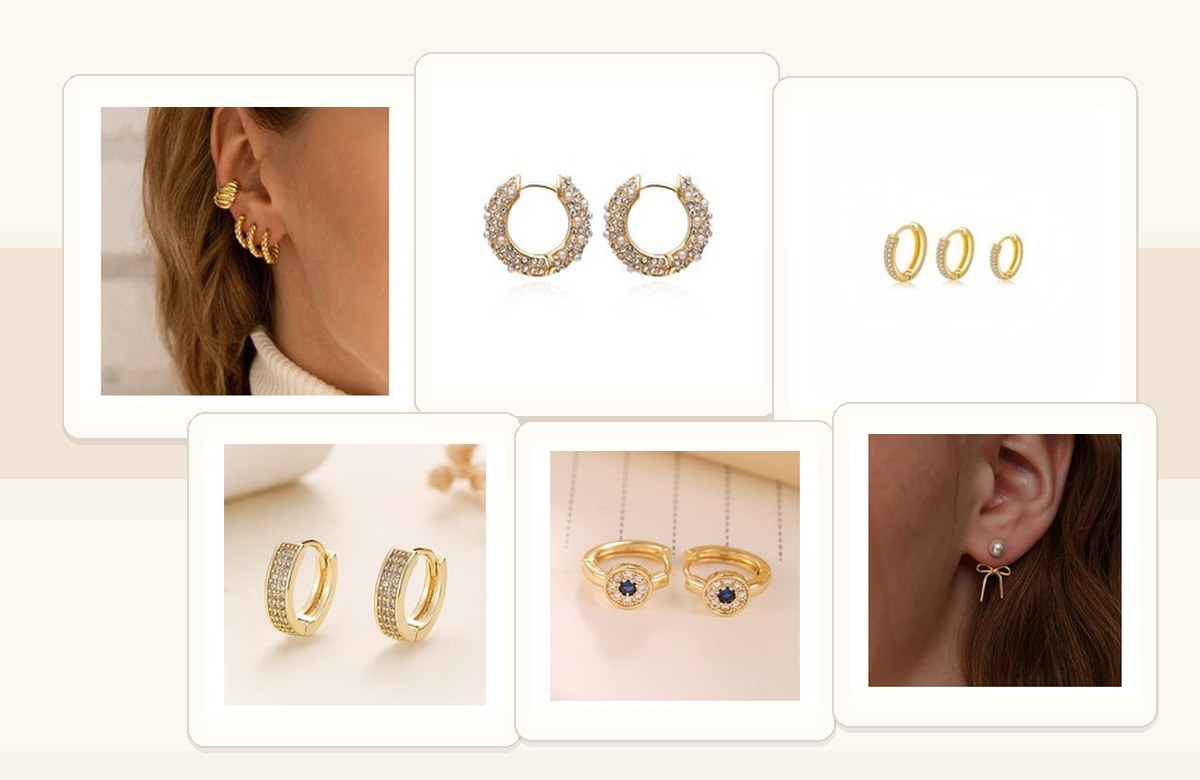
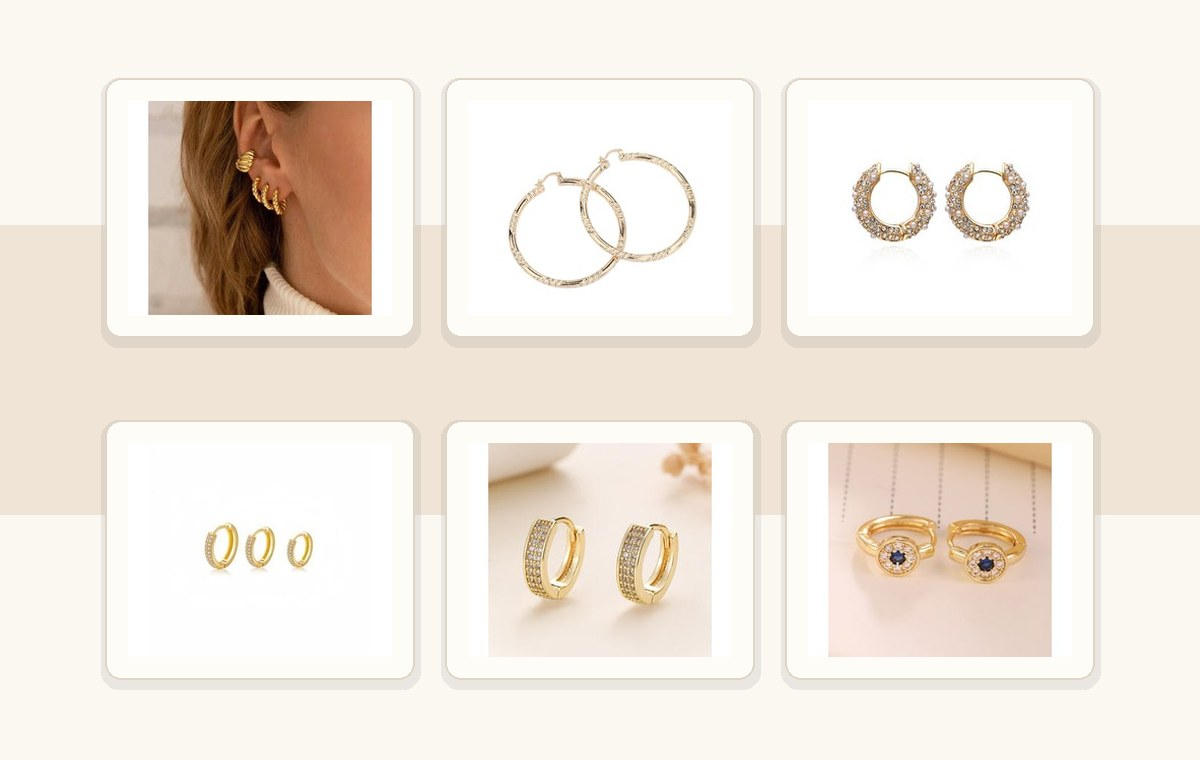
Fix huggie board image proportions

diff --git a/index.html b/index.html
@@ -174,6 +174,7 @@
 
     .visual img {
       width: 100%;
+      height: auto;
       display: block;
       border-radius: 6px;
       background: #f3eee5;
@@ -398,7 +399,7 @@
         </div>
       </div>
       <div class="visual">
-        <img src="assets/huggie-style-board.jpg" width="1200" height="780" alt="Small gold huggie earring sample board with reference styles">
+        <img src="assets/huggie-style-board.jpg" width="1200" height="760" alt="Small gold huggie earring sample board with reference styles">
         <p class="caption">
           Visual reference only. Final material, plating, MOQ, sample fee, lead time, and compliance documents are confirmed case by case before quoting.
         </p>